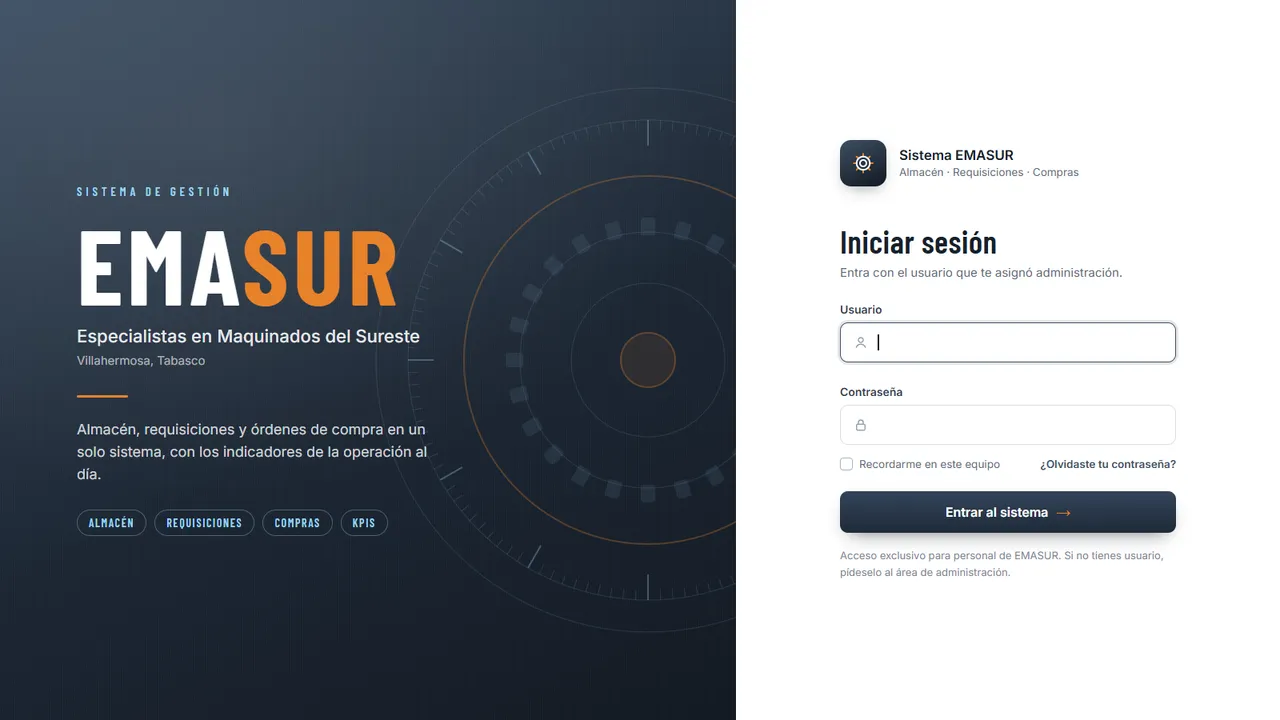
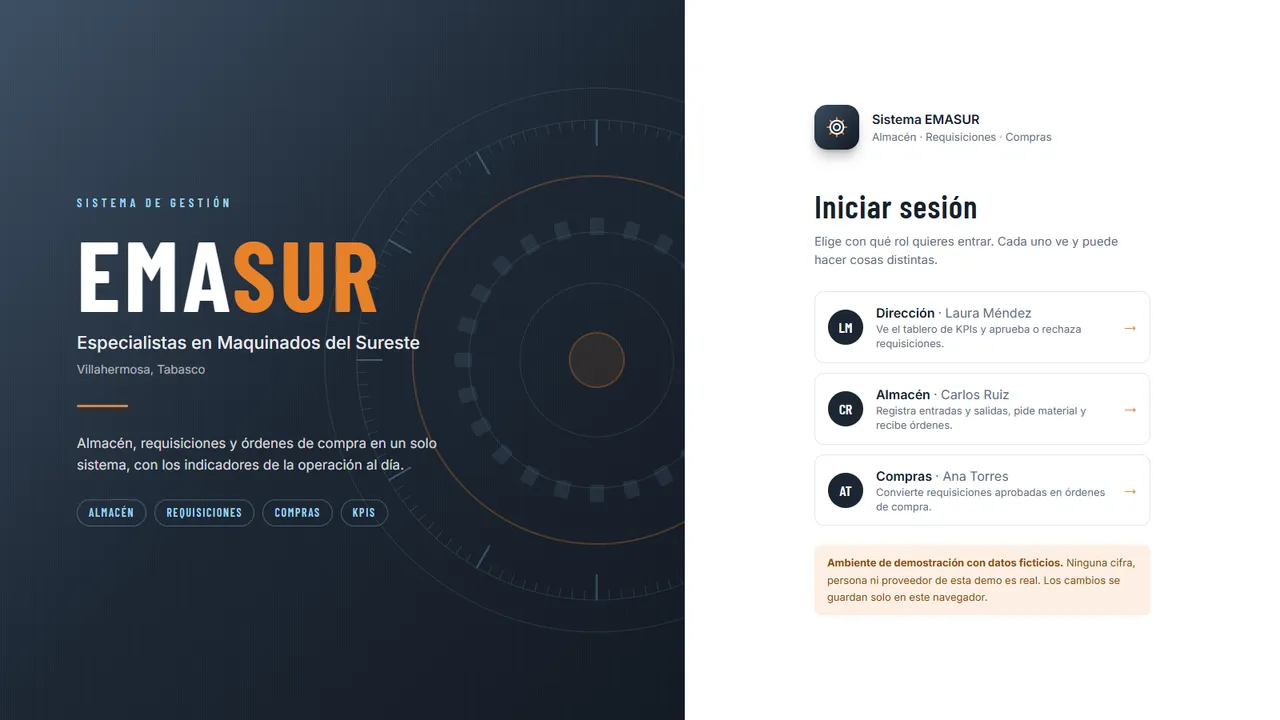
EMASUR: la tarjeta enlaza a la demo funcional del sistema
Se construyó una demo sencilla del sistema (emasur-sistema-demo.vercel.app):
almacén con entradas y salidas, requisiciones con aprobación, órdenes de
compra que al recibirse meten el material al almacén, y tablero de KPIs. Datos
ficticios, entrada de un clic por rol.

La imagen de la tarjeta deja de ser una recreación: ahora es la captura real
de la pantalla de acceso publicada, y la tarjeta enlaza a la demo con el texto
"toca para entrar a la demo".

diff --git a/lib/i18n.ts b/lib/i18n.ts
@@ -156,6 +156,7 @@ const es = {
     inProduction: "En producción",
     confidential: "Confidencial",
     tapToVisit: "toca para visitar el sitio",
+    tapToDemo: "toca para entrar a la demo",
     featured: {
       cat: "Suite ERP · Petróleo & Gas",
       title: "Cliente petrolero — Suite ERP",
@@ -181,7 +182,7 @@ const es = {
     emasur: {
       cat: "Sistema a la medida · Industria",
       title: "EMASUR",
-      desc: "Sistema para Especialistas en Maquinados del Sureste (Villahermosa, Tabasco): inventario del almacén, requisiciones y órdenes de compra, con indicadores (KPIs) para seguir la operación.",
+      descPrefix: "Sistema para Especialistas en Maquinados del Sureste (Villahermosa, Tabasco): inventario del almacén, requisiciones y órdenes de compra, con indicadores (KPIs) para seguir la operación — ",
       alt: "EMASUR — Sistema de almacén, requisiciones y compras (pantalla de inicio de sesión)",
     },
     est32: {
@@ -689,6 +690,7 @@ const en: typeof es = {
     inProduction: "In production",
     confidential: "Confidential",
     tapToVisit: "tap to visit the site",
+    tapToDemo: "tap to open the demo",
     featured: {
       cat: "ERP Suite · Oil & Gas",
       title: "Oil & gas client — ERP Suite",
@@ -714,7 +716,7 @@ const en: typeof es = {
     emasur: {
       cat: "Custom system · Industry",
       title: "EMASUR",
-      desc: "A system for Especialistas en Maquinados del Sureste (Villahermosa, Tabasco): warehouse inventory, purchase requests and purchase orders, with KPIs to track the operation.",
+      descPrefix: "A system for Especialistas en Maquinados del Sureste (Villahermosa, Tabasco): warehouse inventory, purchase requests and purchase orders, with KPIs to track the operation — ",
       alt: "EMASUR — Warehouse, purchase request and purchasing system (login screen)",
     },
     est32: {

diff --git a/components/Portfolio.tsx b/components/Portfolio.tsx
@@ -198,10 +198,14 @@ export default function Portfolio({ lang = "es" }: { lang?: Locale }) {
           </div>
         </a>
 
-        {/* EMASUR — cliente, sistema de almacén y compras. La imagen es una
-            recreación de su pantalla de acceso: el sistema no está publicado
-            bajo neuroviasystems.cloud y no hay captura del original. Sin enlace. */}
-        <article className="proj-card overflow-hidden rounded-2xl border border-line bg-white">
+        {/* EMASUR — cliente, sistema de almacén y compras. Enlaza a la demo
+            pública (datos ficticios); su sistema real no está publicado. */}
+        <a
+          href="https://emasur-sistema-demo.vercel.app"
+          target="_blank"
+          rel="noopener noreferrer"
+          className="proj-card block overflow-hidden rounded-2xl border border-line bg-white no-underline"
+        >
           <div className="relative aspect-video overflow-hidden">
             {/* eslint-disable-next-line @next/next/no-img-element */}
             <img
@@ -220,9 +224,15 @@ export default function Portfolio({ lang = "es" }: { lang?: Locale }) {
             <h3 className="m-0 font-heading text-[21px] font-semibold leading-[1.18] tracking-[-0.02em] text-ink">
               {t.emasur.title}
             </h3>
-            <p className="mt-[11px] text-sm leading-[1.6] text-muted">{t.emasur.desc}</p>
+            <p className="mt-[11px] text-sm leading-[1.6] text-muted">
+              {t.emasur.descPrefix}
+              <span className="font-semibold" style={{ color: "var(--accent)" }}>
+                {t.tapToDemo}
+              </span>
+              .
+            </p>
           </div>
-        </article>
+        </a>
 
         {/* E.S.T. N.° 32 — escuela, panel de asistencia y expedientes (captura real + enlace) */}
         <a
